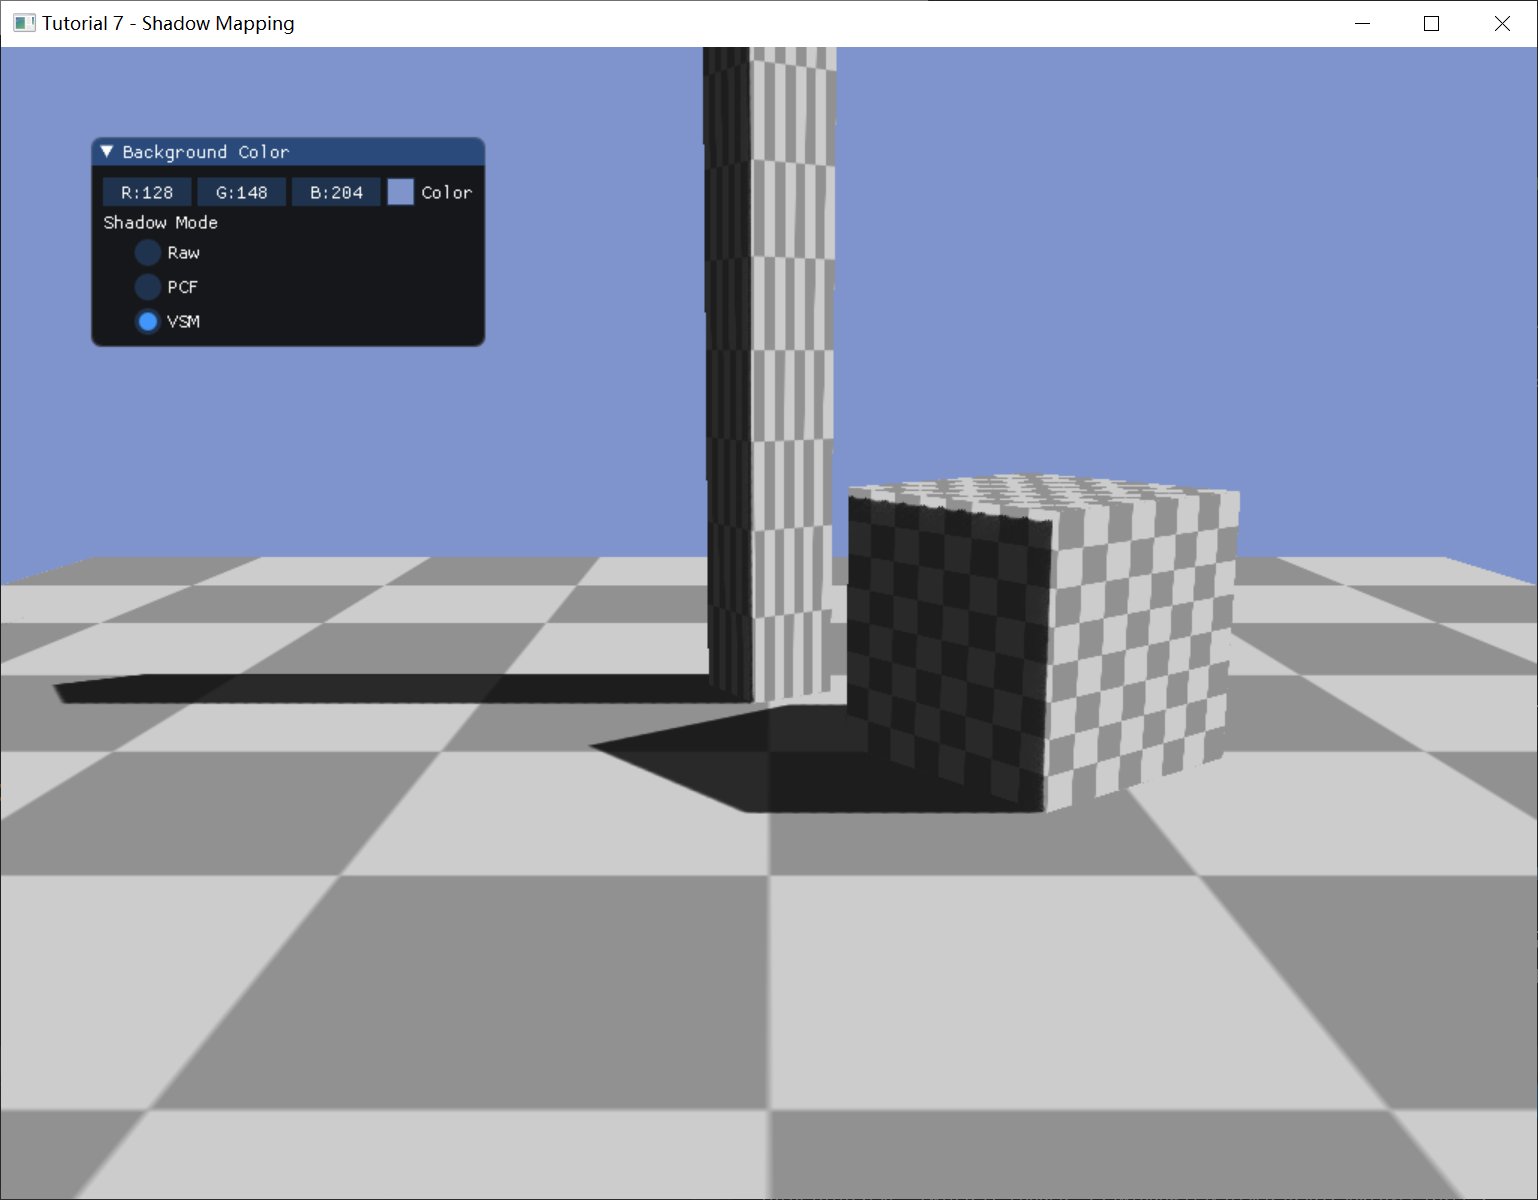
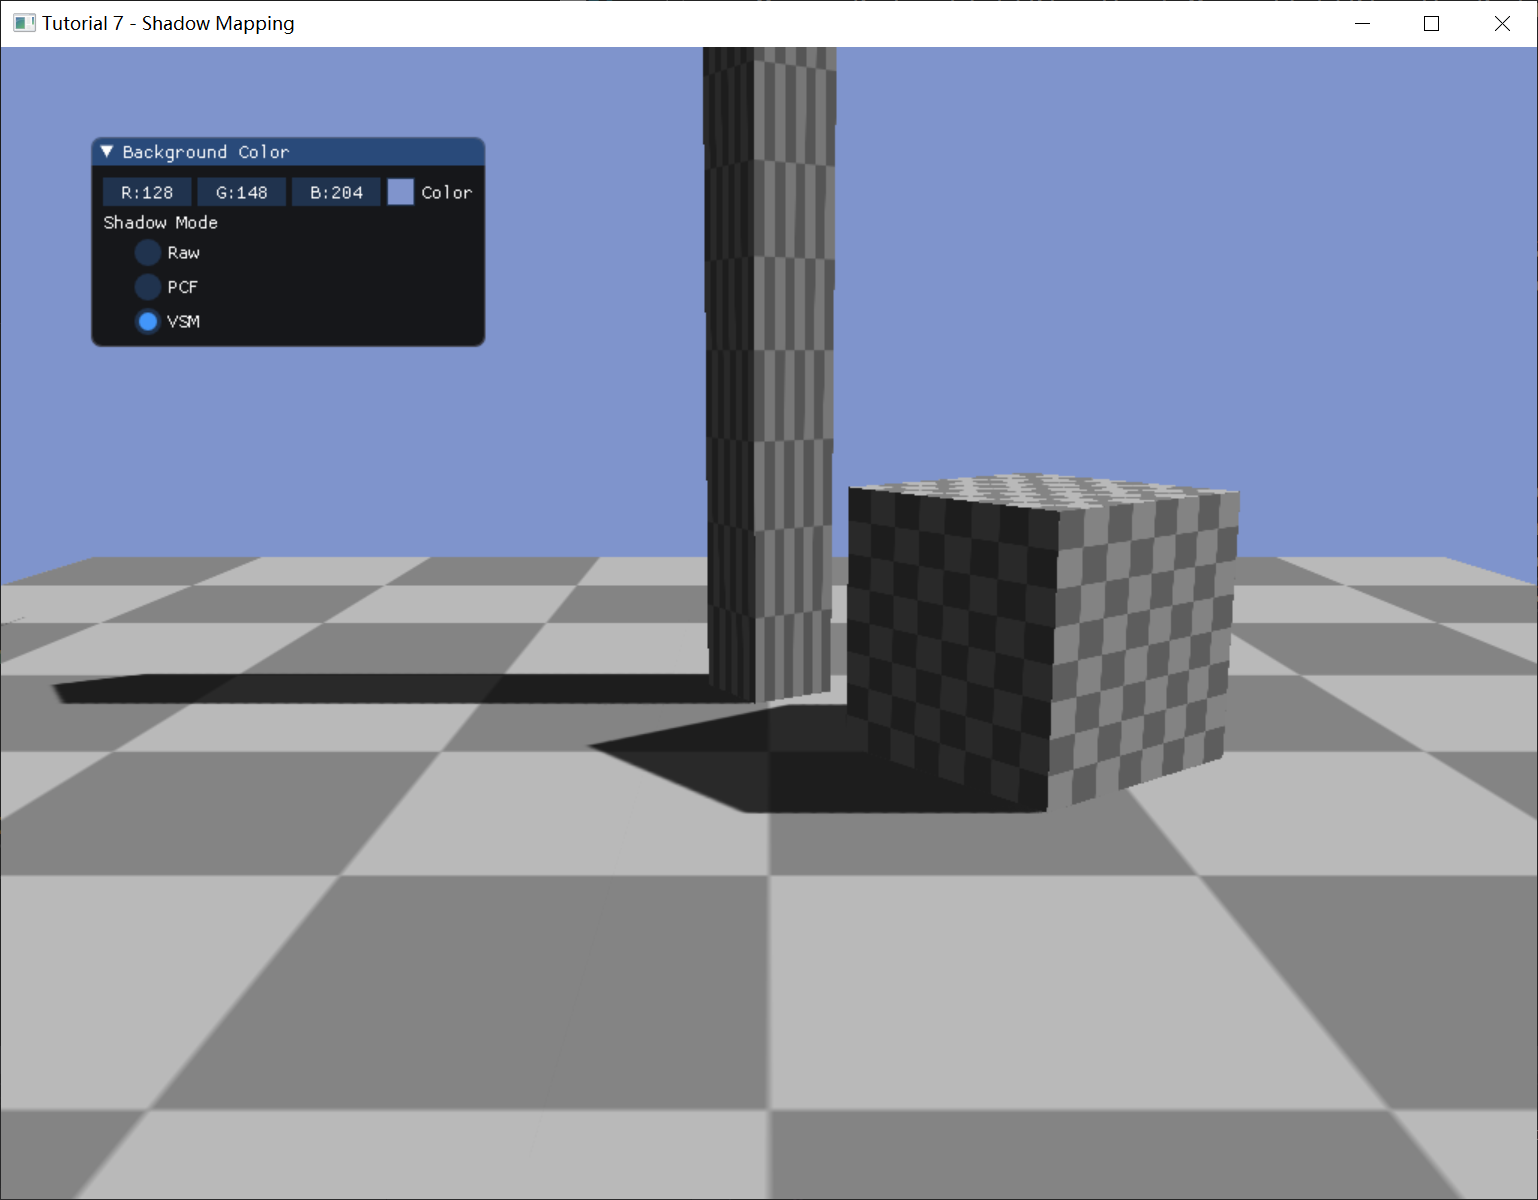
fix normal error; shadow with NoL

diff --git a/DirectX12Lib/src/PipelineState.cpp b/DirectX12Lib/src/PipelineState.cpp
@@ -25,7 +25,7 @@ void FPipelineState::Initialize()
 	RasterizerShadow = RasterizerDefault;
 	RasterizerShadow.DepthBias = 10;
 	RasterizerShadow.DepthBiasClamp = 0.f;
-	RasterizerShadow.SlopeScaledDepthBias = 1.5f;
+	RasterizerShadow.SlopeScaledDepthBias = 2.f;
 
 	// blend state
 	D3D12_BLEND_DESC alphaBlend = {};
